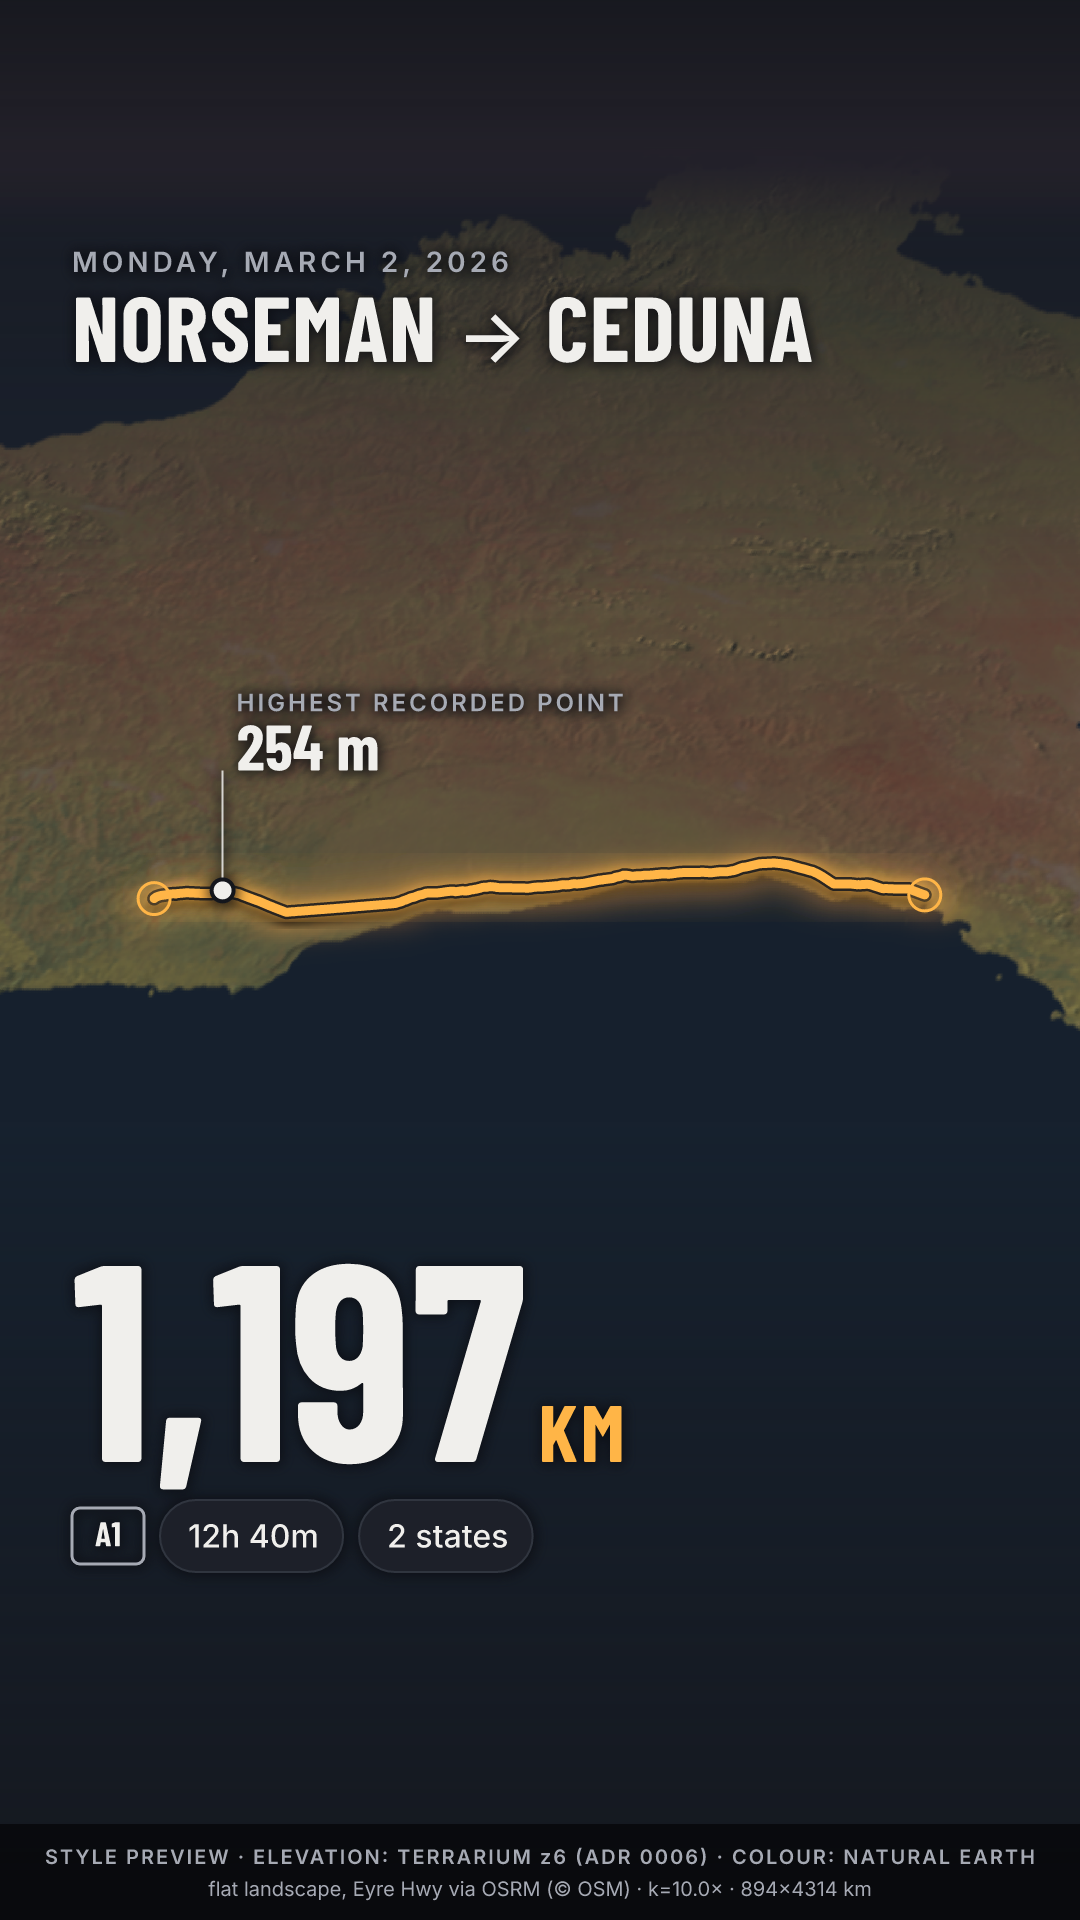
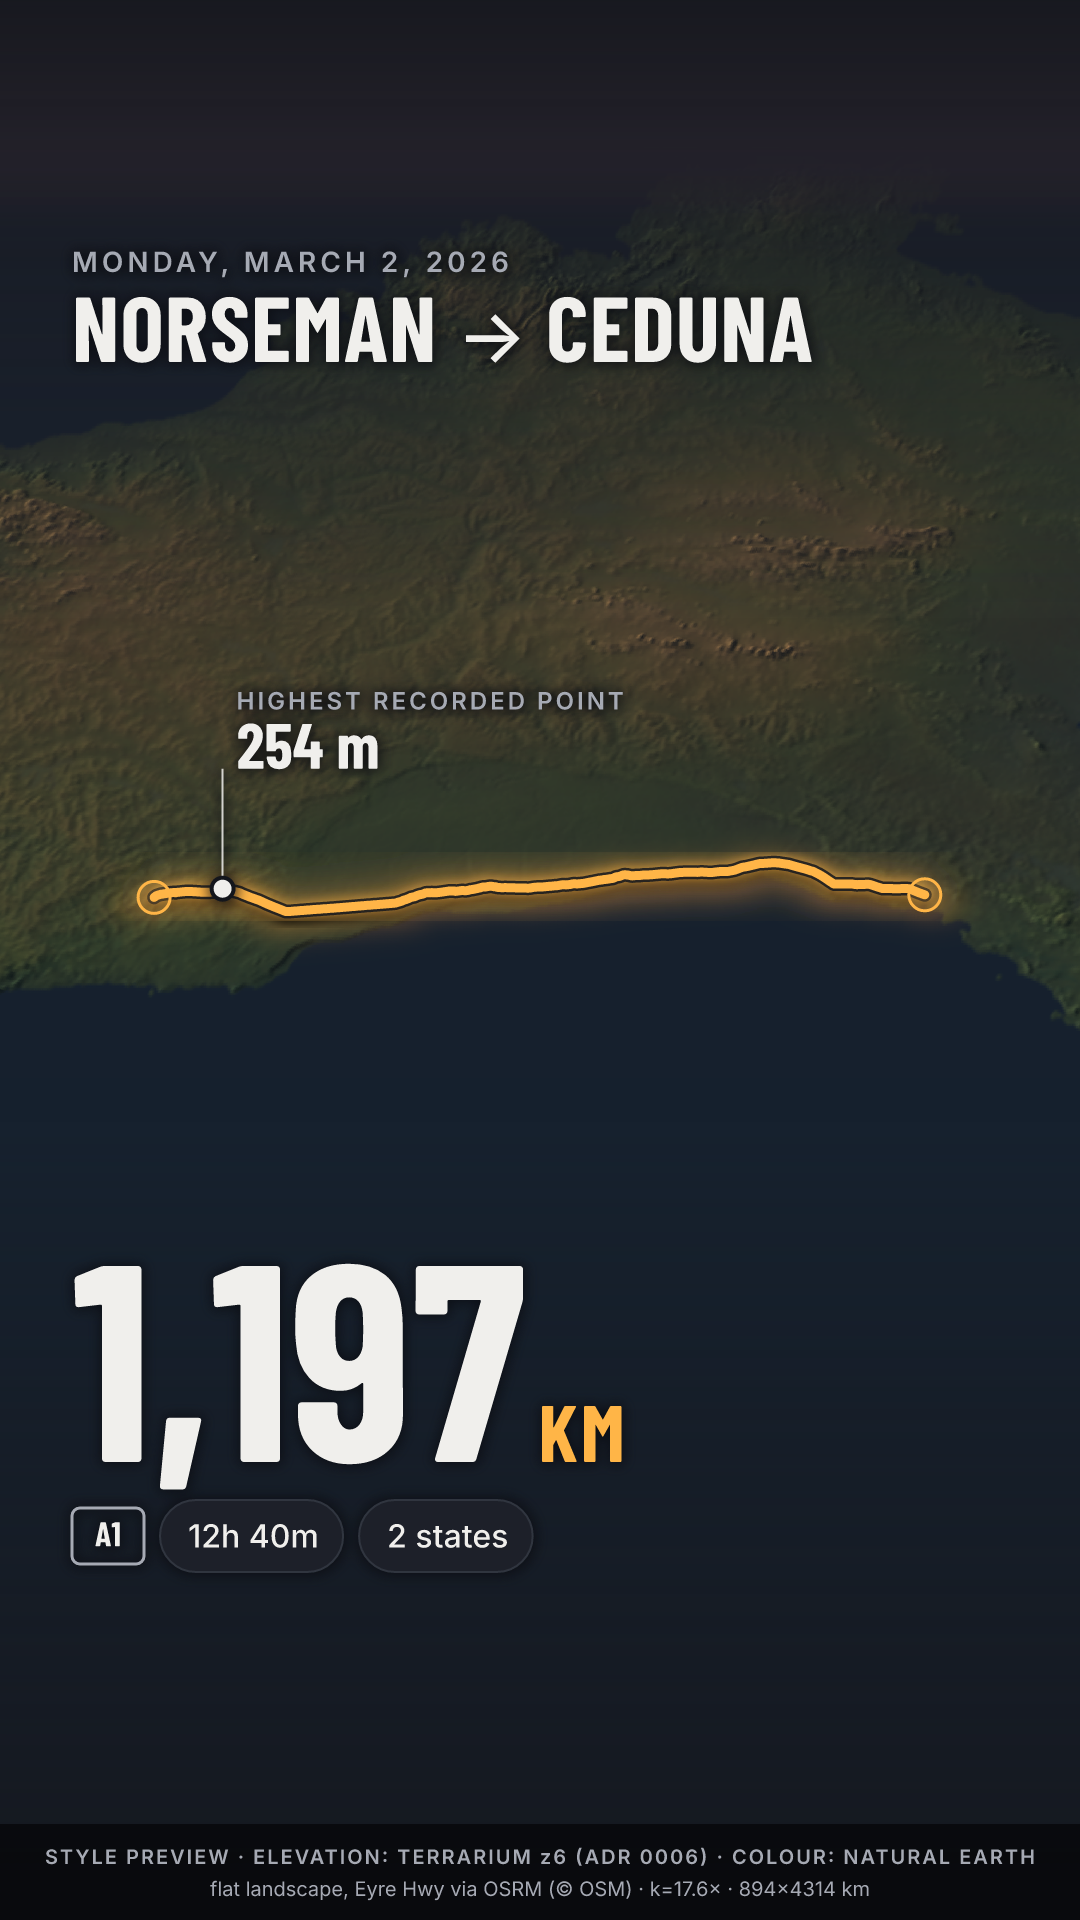
ROA-128 Terrain on flat land: height colours, a lower sun, more height
Board feedback 2026-11-25: on flat land (Kaunas to Klaipeda, 210 m of
relief) the Terrain card read as olive blotches with no shape. Option D,
chosen from a seven-way study: a new terrain.flatLand token group. A
flatness from the land's raw height span (1 at 300 m or less, 0 at 1,500 m
or more) blends in height colours scaled to the trip (teal lowland to ochre
upland), a lower sun (24 to 15 degrees), more height (minimum span 1,200 to
350 m, exaggeration cap 10 to 22x) and a lighter far haze (0.55 to 0.45).

Mountains are untouched: every blend is skipped at flatness 0, and the
Brenner, I-80 and hide-route previews regenerate byte-identical. Same
change in the core renderer and the Python reference; new Lithuania
preview, Nullarbor (flatness 0.64) regenerated, README step 10; core tests
for the flatness curve, the ramp, and a flat synthetic scene (more height
than the ridge scene, within the cap, deterministic).

diff --git a/RoadPrintCore/Sources/RoadPrintCore/Cards/TerrainRenderer.swift b/RoadPrintCore/Sources/RoadPrintCore/Cards/TerrainRenderer.swift
@@ -466,14 +466,19 @@ enum TerrainRenderer {
         let sortedLand = (landHeights.isEmpty ? allHeights : landHeights).sorted()
         landHeights = []; allHeights = []
         let pLo = percentile(sortedLand, 2), pHi = percentile(sortedLand, 99.5)
-        let span = max(pHi - pLo, TT.Land.minSpanMeters)
+        // flat land (terrain.flatLand): 0 at 1,500 m of relief or more, so mountains stay exactly style 5
+        let rawSpan = pHi - pLo
+        let flatness = TerrainRenderer.flatness(span: rawSpan)
+        let fl = TT.FlatLand.self
+        func blend(_ mountain: Double, _ flatLand: Double) -> Double { flatness > 0 ? mountain + (flatLand - mountain) * flatness : mountain }
+        let span = max(rawSpan, blend(TT.Land.minSpanMeters, fl.minSpanMeters))
         let ex = TT.Camera.Exaggeration.self
-        let k = flat ? 0 : min(max(ex.targetReliefRatio * cam.groundWidth / (span * cosEl), ex.min), ex.max)
+        let k = flat ? 0 : min(max(ex.targetReliefRatio * cam.groundWidth / (span * cosEl), ex.min), blend(ex.max, fl.exaggerationMax))
         let hbase = pLo
 
         // ---- light, colour, water, route light, haze, sky fade; screen positions ----
         let hs = TT.Hillshade.self
-        let az = hs.lightAzimuthDeg * Double.pi / 180, alt = hs.lightAltitudeDeg * Double.pi / 180
+        let az = hs.lightAzimuthDeg * Double.pi / 180, alt = blend(hs.lightAltitudeDeg, fl.lightAltitudeDeg) * Double.pi / 180
         let lx = sin(az) * cos(alt), ly = cos(az) * cos(alt), lz = sin(alt)
         let key = hexColor(hs.keyColor), ambRaw = hexColor(hs.ambientColor)
         let ambMax = Double(max(ambRaw.r, ambRaw.g, ambRaw.b))
@@ -484,6 +489,8 @@ enum TerrainRenderer {
         let routeArr = v3(hexColor(TT.RouteLight.color)), hazeArr = v3(hexColor(TT.Haze.color))
         let skyC = hexColor(TT.Sky.horizon), skyArr = v3(skyC)
         let lcTok = TT.LandCover.self
+        let ramp = [fl.Ramp.low, fl.Ramp.lowMid, fl.Ramp.highMid, fl.Ramp.high].map { v3(hexColor($0)) }
+        let hazeFar = blend(TT.Haze.farOpacity, fl.hazeFarOpacity)
         let oc = TT.Occlusion.self
         let pxm = cam.metresPerPixel
 
@@ -503,7 +510,7 @@ enum TerrainRenderer {
             let ysBase = pr.screenY(depth: d)
             let yScale = k * cosEl * fr * cam.scale
             let dc = min(max(d, 0), 1)
-            let haze = TT.Haze.farOpacity * pow(dc, TT.Haze.curve)
+            let haze = hazeFar * pow(dc, TT.Haze.curve)
             let far = smoothstep(1 - TT.EdgeFade.far, 1, dc)
             let sig = rl.radius / (cam.scale * fr)
             let Yg = rowYg[i]
@@ -531,6 +538,7 @@ enum TerrainRenderer {
                 var c = SIMD3(pow(g.x, lcTok.gamma), pow(g.y, lcTok.gamma), pow(g.z, lcTok.gamma)) * (lcTok.brightness * 255)
                 let snow = flat ? 0 : smoothstep(TT.Snow.startMeters, TT.Snow.fullMeters, h) * TT.Snow.opacity
                 c = c * (1 - snow) + snowArr * snow
+                if flatness > 0 { c = c * (1 - flatness) + TerrainRenderer.heightColor(h, low: pLo, span: rawSpan, ramp: ramp) * flatness }
                 c = c * light * occ
                 // water: 3×3 mean of the mask (uniform_filter, reflect), smoothstep 0.25..0.75
                 var wsum = 0
@@ -721,6 +729,26 @@ enum TerrainRenderer {
             baselines.append(y)
         }
         return TerrainSummitLabel(marker: CardPoint(x: mx, y: my), leaderEnd: CardPoint(x: mx, y: b.ly), x: b.tx, baselines: baselines)
+    }
+}
+
+extension TerrainRenderer {
+    /// How flat the trip's land is: 1 at `terrain.flatLand.flatSpanMeters` of relief or less, 0 at
+    /// `mountainSpanMeters` or more (style 5 unchanged), linear between.
+    static func flatness(span: Double) -> Double {
+        let fl = CardTokens.Terrain.FlatLand.self
+        guard span.isFinite else { return 0 }
+        return min(max((fl.mountainSpanMeters - span) / (fl.mountainSpanMeters - fl.flatSpanMeters), 0), 1)
+    }
+
+    /// The flat-land height colour (0–255): `h` placed between the trip's low point and low + span,
+    /// interpolated across the ramp's even stops.
+    static func heightColor(_ h: Double, low: Double, span: Double, ramp: [SIMD3<Double>]) -> SIMD3<Double> {
+        let t = min(max((h - low) / max(span, 1), 0), 1)
+        let last = Double(ramp.count - 1)
+        let pos = min(t * last, last - 1e-6)
+        let i0 = Int(pos), f = pos - Double(i0)
+        return ramp[i0] * (1 - f) + ramp[i0 + 1] * f
     }
 }
 

diff --git a/RoadPrintCore/Tests/RoadPrintCoreTests/TerrainCardTests.swift b/RoadPrintCore/Tests/RoadPrintCoreTests/TerrainCardTests.swift
@@ -287,6 +287,44 @@ private typealias TT = CardTokens.Terrain
     #expect(scene.seconds > 0)
 }
 
+// MARK: - flat land (terrain.flatLand, option D)
+
+@Test func flatnessFollowsTheReliefSpan() {
+    let fl = CardTokens.Terrain.FlatLand.self
+    #expect(TerrainRenderer.flatness(span: 3000) == 0)
+    #expect(TerrainRenderer.flatness(span: fl.mountainSpanMeters) == 0)
+    #expect(TerrainRenderer.flatness(span: fl.flatSpanMeters) == 1)
+    #expect(TerrainRenderer.flatness(span: 40) == 1)
+    #expect(abs(TerrainRenderer.flatness(span: (fl.mountainSpanMeters + fl.flatSpanMeters) / 2) - 0.5) < 1e-12)
+    #expect(TerrainRenderer.flatness(span: .nan) == 0)
+}
+
+@Test func heightColourRampSpansTheTrip() {
+    let ramp: [SIMD3<Double>] = [SIMD3(0, 0, 0), SIMD3(30, 30, 30), SIMD3(60, 60, 60), SIMD3(90, 90, 90)]
+    #expect(TerrainRenderer.heightColor(100, low: 100, span: 300, ramp: ramp) == SIMD3(0, 0, 0))
+    #expect(TerrainRenderer.heightColor(50, low: 100, span: 300, ramp: ramp) == SIMD3(0, 0, 0))   // below the low point
+    let mid = TerrainRenderer.heightColor(250, low: 100, span: 300, ramp: ramp)                  // t 0.5: between stops 1 and 2
+    #expect(abs(mid.x - 45) < 1e-6)
+    let top = TerrainRenderer.heightColor(900, low: 100, span: 300, ramp: ramp)                  // above: the last stop
+    #expect(abs(top.x - 90) < 1e-3)
+}
+
+/// The same route over a 120 m plain with 150 m of rolling hills: fully flat land.
+private let flatRelief = SyntheticRelief(bumps: [
+    Bump(amp: 120, lat: 0, latSigma: 0, lon: 0, lonSigma: 0),
+    Bump(amp: 150, lat: 45.15, latSigma: 0.08, lon: 10.0, lonSigma: 0.3),
+])
+
+@Test func flatLandLiftsTheReliefAndStaysDeterministic() throws {
+    let tiles = flatRelief.tiles(for: scene.plan)
+    let a = TerrainCard.render(routeRequest, plan: scene.plan, tiles: tiles, landCover: landCover)
+    let b = TerrainCard.render(routeRequest, plan: scene.plan, tiles: tiles, landCover: landCover)
+    #expect(fnv(a.rgba) == fnv(b.rgba))
+    // A 150 m swell gets more height than a 3,500 m ridge, within the flat-land cap.
+    #expect(a.exaggeration > scene.render.exaggeration)
+    #expect(a.exaggeration <= CardTokens.Terrain.FlatLand.exaggerationMax)
+}
+
 // MARK: - parity with terrain_relief.py (opt-in)
 
 /// RP_TERRAIN_PARITY=<dir>: renders <dir>/route.txt ("lon lat alt" per line, alt "nan" for none; a line

diff --git a/RoadPrintCore/Sources/RoadPrintCore/Cards/CardTokens.generated.swift b/RoadPrintCore/Sources/RoadPrintCore/Cards/CardTokens.generated.swift
@@ -485,5 +485,29 @@ public enum CardTokens {
                 public static let opacity: Double = 0.85
             }
         }
+        /// Flat land (board, 2026-11-25, option D). flatness = clamp((mountainSpanMeters − span) / (mountainSpanMeters − flatSpanMeters), 0, 1) from the land's raw height span (2nd to 99.5th percentile). Every value below blends in by flatness, so a trip with 1,500 m of relief or more renders exactly as style 5
+        public enum FlatLand {
+            /// At or below this span the land is fully flat
+            public static let flatSpanMeters: Double = 300.0
+            /// At or above this span nothing changes
+            public static let mountainSpanMeters: Double = 1500.0
+            /// Height colours, scaled to the trip: t = (h − low) / span across four even stops; the ground colour becomes landCover·(1 − flatness) + ramp(t)·flatness, before the light
+            public enum Ramp {
+                /// Teal lowland, river valleys
+                public static let low: String = "#183e3c"
+                public static let lowMid: String = "#365c3a"
+                public static let highMid: String = "#70703e"
+                /// Ochre upland
+                public static let high: String = "#96784e"
+            }
+            /// A lower sun rakes the small relief (style 5: 24°)
+            public static let lightAltitudeDeg: Double = 15.0
+            /// Lets more height through (land.minSpanMeters 1200)
+            public static let minSpanMeters: Double = 350.0
+            /// camera.exaggeration.max 10
+            public static let exaggerationMax: Double = 22.0
+            /// haze.farOpacity 0.55: the far uplands stay readable
+            public static let hazeFarOpacity: Double = 0.45
+        }
     }
 }

diff --git a/Tools/design/terrain_relief.py b/Tools/design/terrain_relief.py
@@ -148,7 +148,7 @@ def route_i80():
     return [[p[0], p[1], None if 290 < dd < 350 else float(a)] for p, dd, a in zip(pts, d, alt)]
 
 
-OSRM_ENDS = {'brenner': '11.392,47.262;11.355,46.498', 'nullarbor': '121.70,-32.20;133.68,-32.13'}
+OSRM_ENDS = {'brenner': '11.392,47.262;11.355,46.498', 'nullarbor': '121.70,-32.20;133.68,-32.13', 'lithuania': '23.903,54.898;21.144,55.703'}
 
 
 def route_osrm(name, step):
@@ -174,6 +174,7 @@ ROUTES = {
     'i80': route_i80,
     'brenner': lambda: route_osrm('brenner', 400),
     'nullarbor': lambda: route_osrm('nullarbor', 2000),
+    'lithuania': lambda: route_osrm('lithuania', 600),
 }
 
 
@@ -270,9 +271,14 @@ def render(name, flat=False, places=False):
     h = np.maximum(h, 0)
     land = h[~water] if (~water).any() else h.ravel()
     p_lo, p_hi = np.percentile(land, 2), np.percentile(land, 99.5)
-    span = max(p_hi - p_lo, v(TT['land']['minSpanMeters']))
+    # flat land (terrain.flatLand, board 2026-11-25): 0 at 1,500 m of relief or more (style 5 unchanged)
+    fl = TT['flatLand']
+    raw_span = p_hi - p_lo
+    flatness = min(max((v(fl['mountainSpanMeters']) - raw_span) / (v(fl['mountainSpanMeters']) - v(fl['flatSpanMeters'])), 0), 1)
+    blend = lambda mountain, flat_land: mountain + (flat_land - mountain) * flatness if flatness > 0 else mountain
+    span = max(raw_span, blend(v(TT['land']['minSpanMeters']), v(fl['minSpanMeters'])))
     ex = cam['exaggeration']
-    k = 0.0 if flat else float(np.clip(v(ex['targetReliefRatio']) * gw / (span * math.cos(el)), v(ex['min']), v(ex['max'])))
+    k = 0.0 if flat else float(np.clip(v(ex['targetReliefRatio']) * gw / (span * math.cos(el)), v(ex['min']), blend(v(ex['max']), v(fl['exaggerationMax']))))
     hbase = p_lo
 
     def project(x, y, zz):
@@ -289,7 +295,7 @@ def render(name, flat=False, places=False):
     dzdy = -mos.sample(MLON.ravel(), MLAT.ravel(), gy_px / px_m).reshape(MX.shape)
     nrm = np.stack([-dzdx, -dzdy, np.ones_like(h)], -1); nrm /= np.linalg.norm(nrm, axis=-1, keepdims=True)
     hs = TT['hillshade']
-    az, alt = math.radians(v(hs['lightAzimuthDeg'])), math.radians(v(hs['lightAltitudeDeg']))
+    az, alt = math.radians(v(hs['lightAzimuthDeg'])), math.radians(blend(v(hs['lightAltitudeDeg']), v(fl['lightAltitudeDeg'])))
     Lv = np.array([math.sin(az) * math.cos(alt), math.cos(az) * math.cos(alt), math.sin(alt)])
     lam = np.maximum(0, nrm @ Lv)
     oc = TT['occlusion']
@@ -309,6 +315,11 @@ def render(name, flat=False, places=False):
     sn = TT['snow']
     snow = 0 if flat else smoothstep(v(sn['startMeters']), v(sn['fullMeters']), h)[..., None] * v(sn['opacity'])
     base = base * (1 - snow) + hexrgb(v(sn['color'])) * snow
+    if flatness > 0:  # height colours, scaled to the trip
+        stops = np.array([hexrgb(v(fl['ramp'][k_])) for k_ in ('low', 'lowMid', 'highMid', 'high')])
+        pos = np.minimum(np.clip((h - p_lo) / max(raw_span, 1), 0, 1) * (len(stops) - 1), len(stops) - 1 - 1e-6)
+        i0 = np.floor(pos).astype(int); fr_ = (pos - i0)[..., None]
+        base = base * (1 - flatness) + (stops[i0] * (1 - fr_) + stops[i0 + 1] * fr_) * flatness
     rgb_v = base * light_v * occ[..., None]
     wq = smoothstep(0.25, 0.75, ndimage.uniform_filter(water.astype(float), 3))[..., None]
     rgb_v = rgb_v * (1 - wq) + hexrgb(v(TT['water']['color'])) * wq
@@ -322,7 +333,7 @@ def render(name, flat=False, places=False):
         rgb_v = rgb_v + hexrgb(v(rl['color'])) * (v(rl['intensity']) * np.exp(-0.5 * (dist / sig) ** 2)).reshape(MX.shape)[..., None]
     # haze toward the horizon, then the far edge melts into the sky
     hz = TT['haze']
-    haze = (v(hz['farOpacity']) * np.clip(row_d, 0, 1) ** v(hz['curve']))[:, None, None]
+    haze = (blend(v(hz['farOpacity']), v(fl['hazeFarOpacity'])) * np.clip(row_d, 0, 1) ** v(hz['curve']))[:, None, None]
     rgb_v = rgb_v * (1 - haze) + hexrgb(v(hz['color'])) * haze
     sky_c = hexrgb(v(TT['sky']['horizon']))
     far = smoothstep(1 - v(TT['edgeFade']['far']), 1.0, np.clip(row_d, 0, 1))[:, None, None]
@@ -372,7 +383,7 @@ def render(name, flat=False, places=False):
     img.save(os.path.join(BUILD, f'{name}.relief.png'))
     info = {'k': k, 'gwKm': gw / 1000, 'gdKm': gd / 1000, 'span': span, 'zoom': z, 'horizonY': horizon_y, 'pts': pts}
     json.dump(info, open(os.path.join(BUILD, f'{name}.relief.json'), 'w'))
-    print(f'{name}: k={k:.1f}x near width {gw/1000:.0f} km, depth {gd/1000:.0f} km, z{z} ({px_m:.0f} m/px), span {span:.0f} m, hidden {sum(q.get("hidden", False) for q in pts)}/{len(pts)}')
+    print(f'{name}: flatness={flatness:.2f} (relief {raw_span:.0f} m) k={k:.1f}x near width {gw/1000:.0f} km, depth {gd/1000:.0f} km, z{z} ({px_m:.0f} m/px), span {span:.0f} m, hidden {sum(q.get("hidden", False) for q in pts)}/{len(pts)}')
 
 
 if __name__ == '__main__':

diff --git a/Design/cards/terrain/README.md b/Design/cards/terrain/README.md
@@ -54,6 +54,10 @@ Each step is plain per-vertex maths, so it belongs in `RoadPrintCore` and ports 
 7. **Route light** (`terrain.routeLight`): heat-ramp `#c2650f` around the route, a 26 px gaussian at 0.35. Not in hide-route mode.
 8. **Haze** toward the horizon (`#211f29`, 0.55·d^1.8), and the last 8 % of the depth melts into the dusk band (`terrain.sky`).
 9. **Exaggeration**: unchanged rule, 1.5–10×.
+10. **Flat land** (`terrain.flatLand`, board 2026-11-25, option D). On a plain the land-cover blotches and 200 m of relief read as nothing. `flatness = clamp((1500 − span)/(1500 − 300), 0, 1)` from the land's raw span (2nd–99.5th percentile), and every change blends in by it, so a trip with 1,500 m of relief or more is exactly style 5:
+    - **Height colours**, scaled to the trip: the ground colour becomes `landCover·(1 − flatness) + ramp(t)·flatness`, `t = (h − low)/span` across `#183e3c` (teal lowland) → `#365c3a` → `#70703e` → `#96784e` (ochre upland), before the light.
+    - A lower sun (24° → 15°), more height (minimum span 1,200 → 350 m, exaggeration cap 10 → 22×) and a lighter far haze (0.55 → 0.45).
+    - Measured: Kaunas → Klaipėda 210 m of relief, flatness 1, k 22×; Nullarbor 736 m, flatness 0.64, k 17.6×; Brenner, I-80 and the other previews are byte-identical to before.
 
 ### Ribbon rules (ADR 0001, unchanged)
 
@@ -85,11 +89,12 @@ Above the marker on the open side (towards the card centre), then above on the o
 | `i80-terrain.png` | Salt Lake City to Sacramento (mockup route), Donner Summit, an illustrative 60-mile altitude gap. z7 elevation |
 | `brenner-terrain.png` | Innsbruck to Bolzano, a pass name, km. z10 elevation |
 | `brenner-terrain-long-labels.png` | German strings, a 2-line title, a long summit name, safe area (pink) and route band (blue) |
-| `nullarbor-flat.png` | Flat land: the 1,200 m minimum span keeps exaggeration calm; the Great Australian Bight as water |
+| `lithuania-terrain.png` | Kaunas to Klaipėda: flat land (210 m of relief), height colours from the Nemunas valley to the Samogitian upland, z8 |
+| `nullarbor-flat.png` | Mostly flat land (736 m in the frame, flatness 0.64): a partial height ramp; the Great Australian Bight as water |
 | `i80-altitude-unavailable.png` | No usable absolute altitude: flat land with land-cover colour, no summit, "Elevation unavailable" chip |
 | `i80-hide-route.png` | Framed on the two named places' city centres, a pin and name each. No route, route light or summit |
 
-Route geometry: I-80 from `docs/plan/mockups/source/`; Brenner (A13/A22) and Nullarbor (Eyre Highway) from OSRM (© OpenStreetMap contributors, ODbL), ends trimmed 8 km, "recorded" altitude sampled from z10 elevation and smoothed. Tiles, land cover and routes are cached in `Tools/design/.cache/` and never committed.
+Route geometry: I-80 from `docs/plan/mockups/source/`; Brenner (A13/A22), Lithuania (A1/E85) and Nullarbor (Eyre Highway) from OSRM (© OpenStreetMap contributors, ODbL), ends trimmed 8 km, "recorded" altitude sampled from z10 elevation and smoothed. Tiles, land cover and routes are cached in `Tools/design/.cache/` and never committed.
 
 ## Contrast
 
